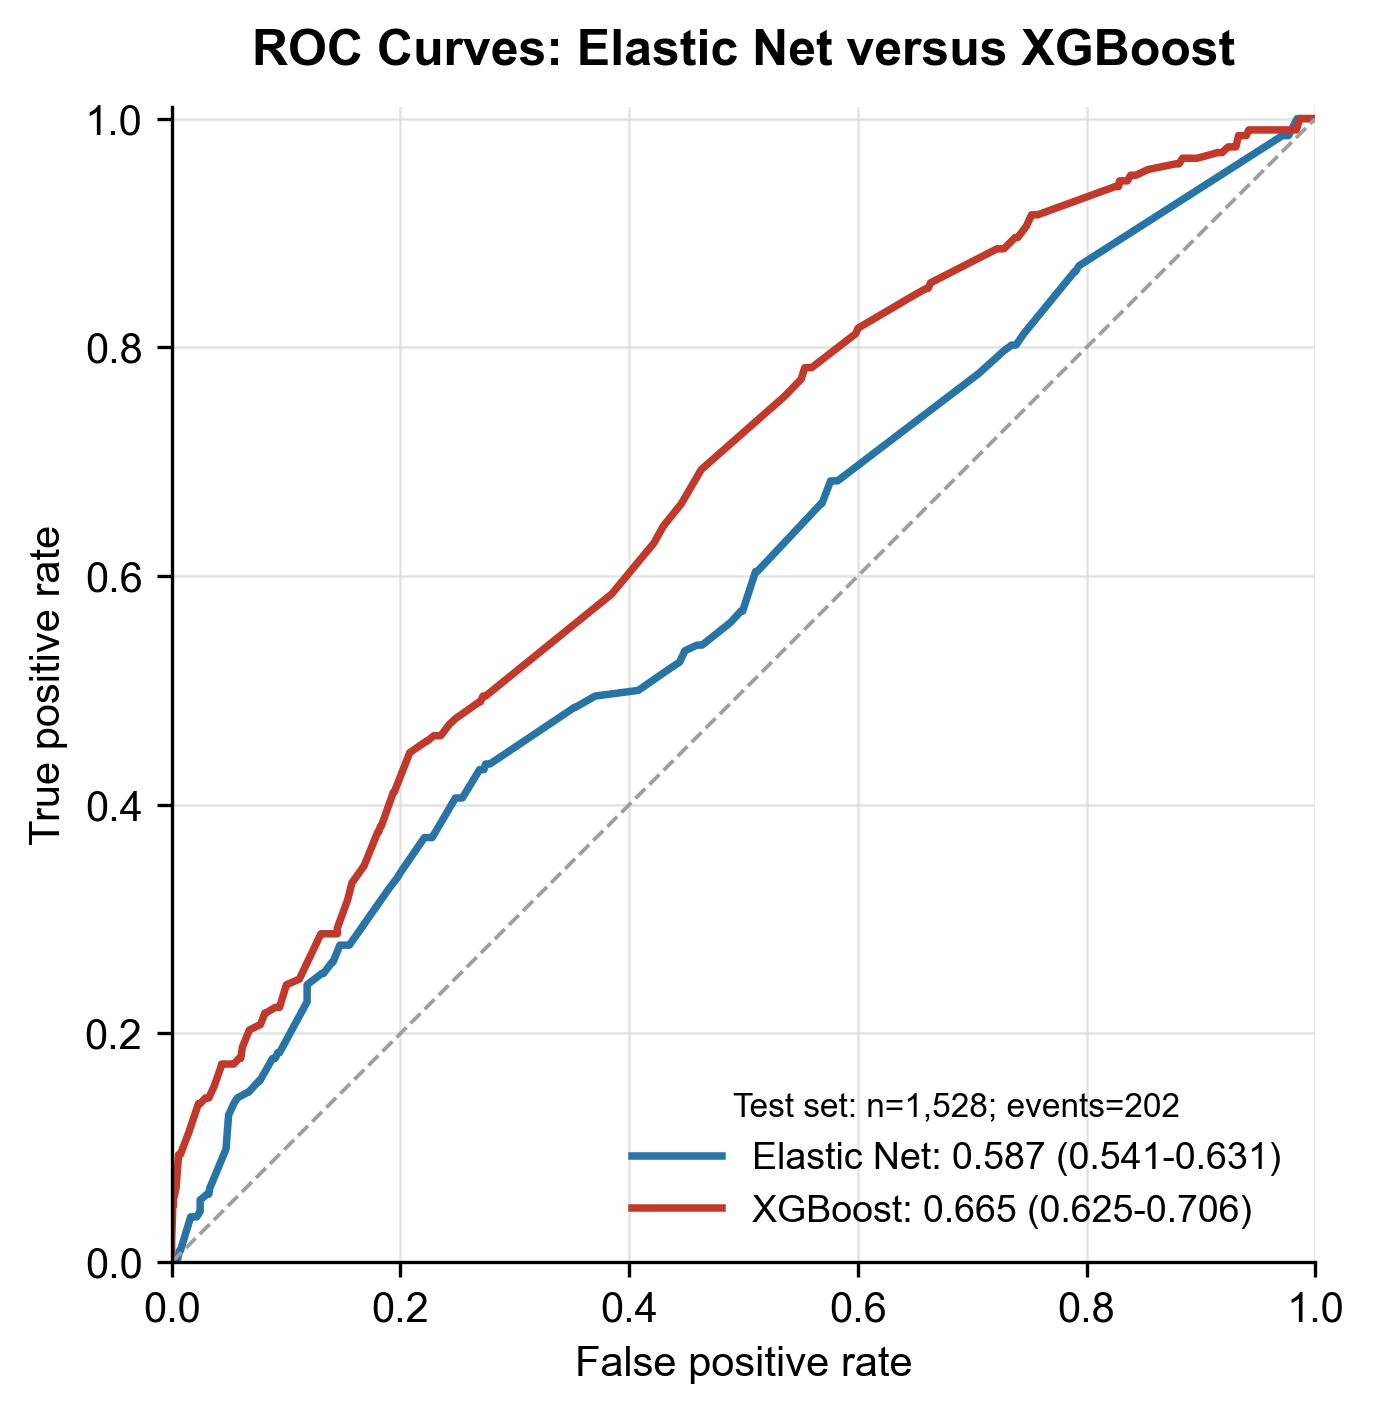
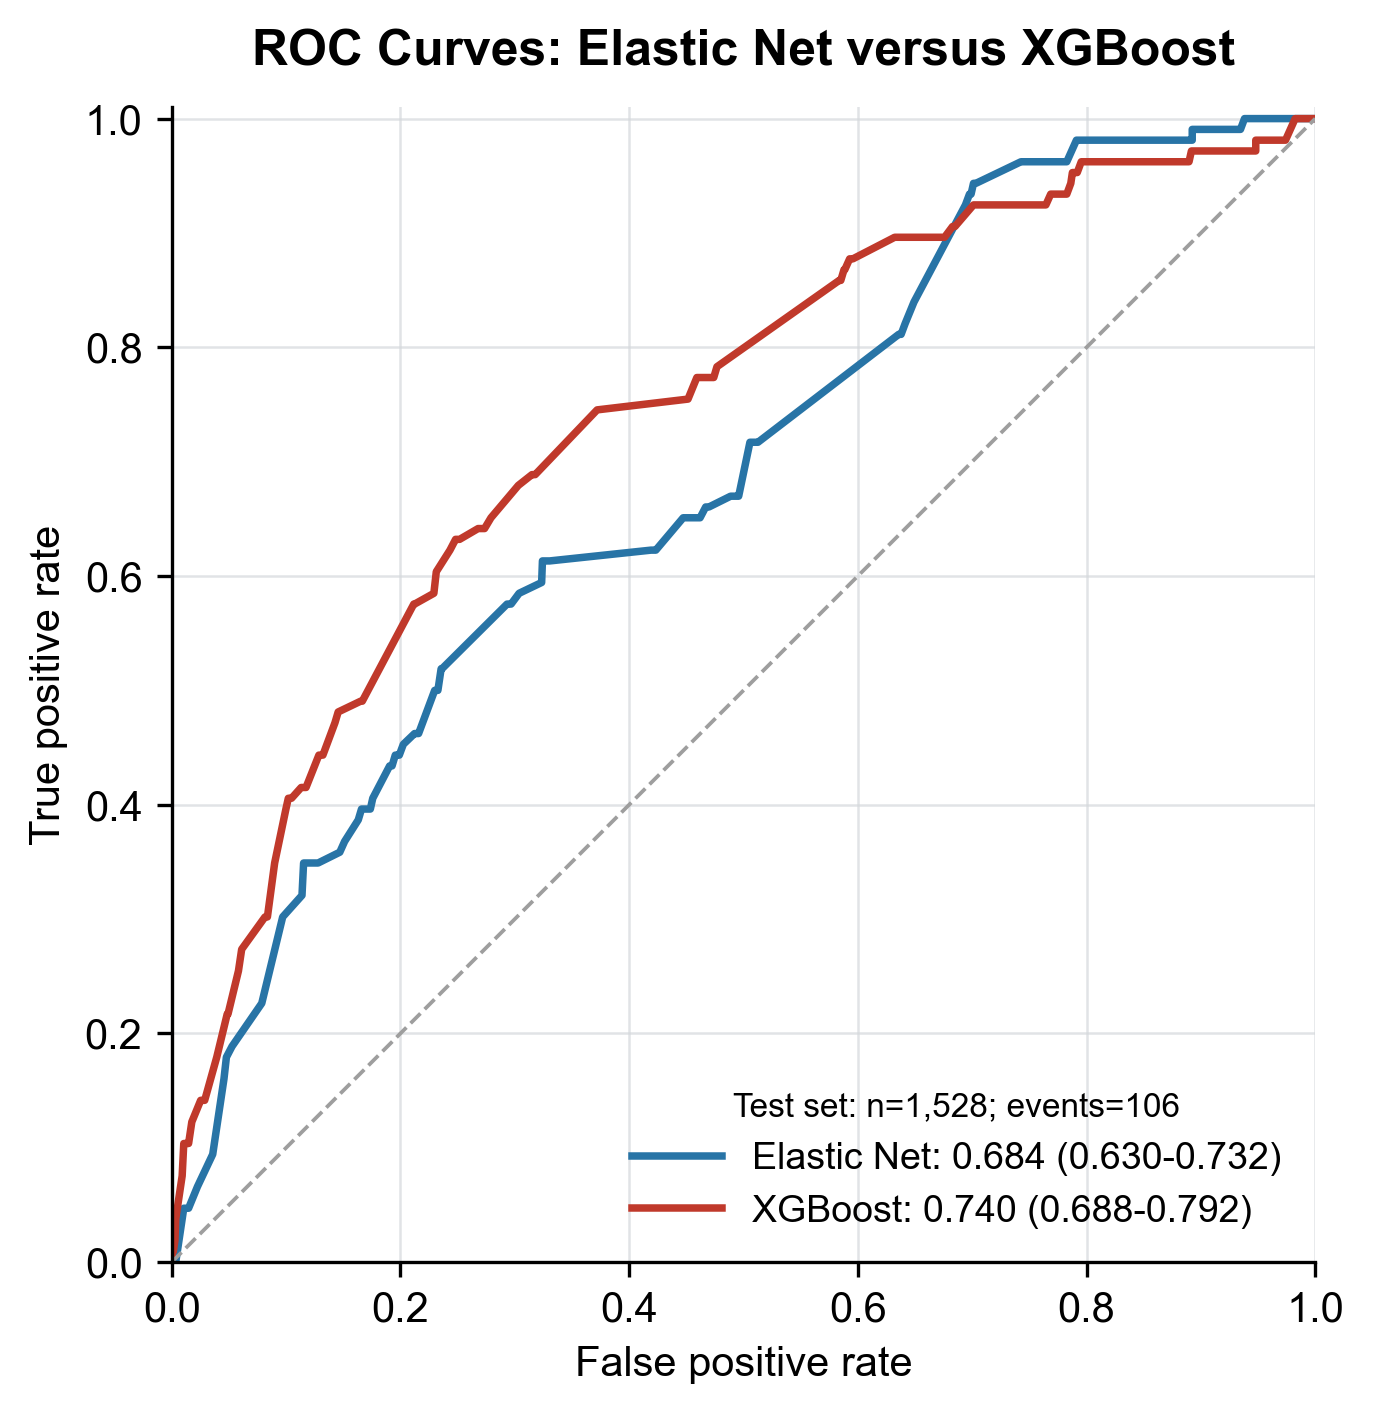
update

diff --git a/绘图工具+部分脚本/部分脚本/Codex01-信号值（PT）-单数据库森林图与热图.py b/绘图工具+部分脚本/部分脚本/Codex01-信号值（PT）-单数据库森林图与热图.py
@@ -128,7 +128,7 @@ def _format_ror_ci(row: pd.Series) -> str:
 
 def _draw_header(ax: plt.Axes, n_rows: int) -> None:
     ax.set_xlim(0, 3.0)
-    ax.set_ylim(n_rows - 0.5, -1.25)
+    ax.set_ylim(n_rows - 0.5, -0.5)
     ax.axis("off")
 
     header_y = -0.72

diff --git a/更新日志/v1.61版本更新预告.md b/更新日志/v1.61版本更新预告.md
@@ -1,0 +1,59 @@
+## SciFaersLab整合包 V1.61 版本更新预告
+
+**项目地址：**
+- Gitee: https://gitee.com/Twilight-of-sea/sci-faers-lab
+- Github: https://github.com/TwilightOfSea/Sci-Faers-Lab-Clone
+
+---
+
+### 一、数据库与词典更新
+
+#### FAERS 数据库
+- 本次为可选更新，FAERS 数据库版本仍为 2026Q3
+
+#### JADER 与 CVARD 数据库
+- 若数据库发布新版本，将同步推送相关更新
+- 预计于 12 月推送
+
+#### MedDRA 词典
+- 内置 MedDRA 词典更新至 v29.1
+
+### 二、功能增量更新
+
+#### 逻辑回归与 XGBoost 预测模型
+- 新增逻辑回归与 XGBoost 预测模型系列脚本
+- 教学文档：[多元 Logistic 回归 + 机器学习预测](https://gitee.com/Twilight-of-sea/sci-faers-lab/blob/master/%E5%88%86%E6%9E%90%E6%96%B9%E6%B3%95/%E5%A4%9A%E5%85%83Logistic%E5%9B%9E%E5%BD%92%2B%E6%9C%BA%E5%99%A8%E5%AD%A6%E4%B9%A0%E9%A2%84%E6%B5%8B.md)
+- 演示视频：[Bilibili](https://www.bilibili.com/video/BV1am4p6XEbr/)
+
+<img src="../pic/P2009a_ROC_Comparison_temp.png" alt="[P2009a]" width="450">
+
+<img src="../pic/P2008a_XGBoost_SHAP_Summary_temp.png" alt="[P2008a]" width="450">
+
+### 三、工具与分析系统更新
+
+#### 绘图分析工具包
+- 更新至 3.1
+- 增加 XGBoost 等科学计算模块
+
+#### 信号监测系统（含批量版）
+- 优化药物检索算法，在复杂查询条件下大幅缩减查询时间
+
+### 四、绘图脚本库扩充与优化
+
+- **森林图联合热力图**
+
+<img src="../pic/codex01_rows_aligned.png" alt="[1022]" width="450">
+
+- **信号值四象限气泡图**
+
+<img src="../pic/[1012]信号值（PT）-ROR频数四象限气泡图_temp.png" alt="[1012]" width="450">
+
+- `[S2020]` 脚本增加批量计算提取药物复合 PT（SMQ）信号的功能
+- 完成从 SMQ/PT 找药物到 100 种药物批量挖掘，再到特定 PT/复合 PT（SMQ）信号值提取，最后通过 `[S2021-S2027]` 图形化脚本绘图的闭环流程
+- 支持绘制同一个 PT/复合 PT 的条形森林复合图，每行代表一个药物
+
+<img src="../pic/S2023b.png" alt="[S2023b]" width="450">
+
+---
+
+*预计更新日期：2026年12月*

diff --git a/拓展模块/提取特定PT信号值_适用于多药批量分析.md b/拓展模块/提取特定PT信号值_适用于多药批量分析.md
@@ -1,5 +1,5 @@
 - [视频教程][(https://www.bilibili.com/video/BV1FQ24BxEFW/)]
-  
+- 现已支持批量计算导出复合PT（SMQ）信号值
 
 ## 第一步
 确定需要研究的目标药物，如果是做诱发某不良反应的药物分析的方向，可以参考[文章套路](../文章套路.md#s分析某种不良反应和不同药物的关联)，了解如何获取药物排名。接下来进行药物的商品名和API名称整理（如下图）
@@ -20,7 +20,7 @@
 
 
 ## 第四步
-- 使用绘图工具包，导入脚本[S2020]**从多药报告中提取某PT信号值**，然后载入任意一个非空的excel表格，点击运行。
+- 使用绘图工具包，导入脚本[S2020]，然后载入任意一个非空的excel表格，点击运行。
 
 <img src="../pic/导入数据和非空表格.png" alt="面积堆叠ROR_temp" width="350">
 
